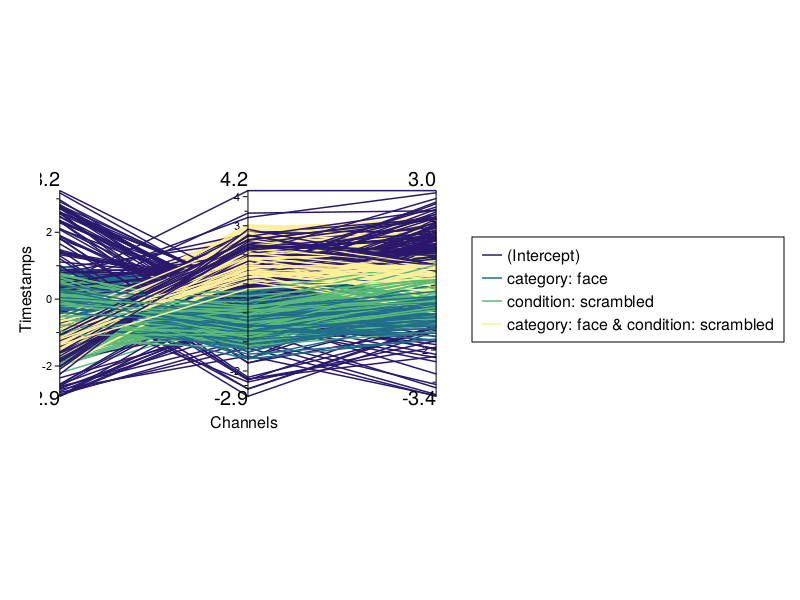
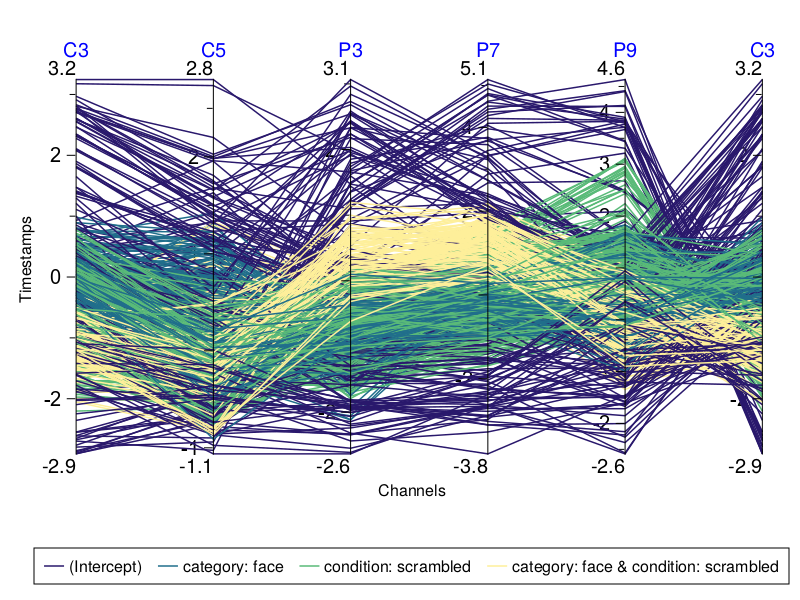
markdown progress, some fixes

diff --git a/docs/src/how_to/show_oob_labels.md b/docs/src/how_to/show_oob_labels.md
@@ -5,4 +5,34 @@ In the following we discuss a possible quick fix for this problem.
 
 Here we start off with the "label-limited" timeexpanded designmatrix from the [corresponding How To section](@ref ht_gen_te_designmatrix) that details how it can be generated.
 
+```
+cDesign = PlotConfig(:design)
+cDesign.setExtraValues(xTicks=10, sortData=false)
+
+cDesign.plot(designmatrix!(ufCont, evts))
+```
+
 ![Label Limited Timeexpanded Designmatrix](../images/designmatrix_te_12_labels.png)
+
+While the plot automatically sets it's height accoring to the labels, they are cut off on the left side.
+
+A quick fix would be to place an empty plot to the left of the designmatrix.
+
+By creating your own figure with Makie.Figure, and then only giving a certain grid position to the designmatrix we get white space next to the plot.
+
+The plot! function inside the plotconfic instance can take any grid position, and the figure `f` will include plot and sufficient white space next to it.
+
+The exact numbers in the grid position can be guessed from the ratio of the overlap, or just tried out.6
+
+```
+cDesign = PlotConfig(:design)
+cDesign.setExtraValues(xTicks=10, sortData=false)
+
+f = Figure()
+
+cDesign.plot!(f[1,2:6],designmatrix!(ufCont, evts))
+
+f
+```
+
+![Label Limited Timeexpanded Designmatrix](../images/label_fix.png)

diff --git a/docs/src/how_to/mult_vis_in_fig.md b/docs/src/how_to/mult_vis_in_fig.md
@@ -1,3 +1,39 @@
 ## [Include multiple Visualizations in one Figure](@id ht_mvf)
 
 In this section we discuss how users are able to include multiple visualizations in a single figure.
+
+By using the !-version of each plot and giving the plot functions grid positions instead of full figures, we can create Coordinated Multiple Views.
+
+You start by creating a figure with Makie.Figure. 
+
+`f = Figure()`
+
+now each plot can be added to `f` via the `config.plot!()` function by putting in a grid position of `f`
+
+```
+f = Figure()
+cButter = PlotConfig(:butterfly)
+cLine = PlotConfig(:line)
+
+cButter.setMappingValues(topoChannels=:channel)
+cLine.setMappingValues(color=:channel)
+
+cLine.plot!(f[1,1], results_plot_butter)
+cButter.plot!(f[2, 1], results_plot_butter)
+
+f
+```
+
+![Simple Coordinated Multiple Views](../images/two_plots.png)
+
+By using the data from the tutorials we can create a big image with every plot (Code below).
+With so many plots at once it's incentivised to set a fixed resolution in your figure to order the plots evenly.
+
+
+![Coordinated Multiple Views](../images/every_plot.png)
+
+```
+
+
+```
+

diff --git a/docs/src/how_to/fix_pcp.md b/docs/src/how_to/fix_pcp.md
@@ -1,4 +1,34 @@
 ## [Fix Parallel Coordinates Plot](@id ht_fpcp)
 
+Since Makie didn't have a native function to draw PCPs our version is somewhat experimental for broad applications.
+
 Under certain circumstances the PCP is not properly visualized.
-In the following these circumstances are detailed and workarounds are proposed.
+This leads to cut of edges of the PCP, and unused space.
+
+Especially when changing the container size by customizing the figure resolution, or adding multiple plots into one figure, the PCP can have problems fitting inside.
+
+![Default Timeexpanded Designmatrix](../images/broken_PCP.png)
+
+Since the plot could have more space above and below, we can change the aspect ratio of the plot with:
+`
+
+`
+
+The labels cut off at the top can be restored with
+`
+
+`
+
+, the plot collides with the lower numbers, the numbers on the left are cut off
+
+To mitigate the effects you can use multiple variables to manually shift the border around the plot.
+
+
+
+```
+
+
+
+```
+
+

diff --git a/docs/src/tutorials/para_coord.md b/docs/src/tutorials/para_coord.md
@@ -32,11 +32,16 @@ The following code will result in the default configuration.
 ```
 paraConfig = PlotConfig(:paracoord)
 ```
-If there are no columns named `category` or `yhat` we have to give the correct names. With this test data it has to be given:
+If there are no columns named `category`,`y`,`channel` and `time` we have to give the correct names. Though y has some alternative default values, it might be safer to set it directly. With this test data we give:
 ```
-paraConfig.setMappingValues(category=:coefname,yhat=:estimate)
+paraConfig.setMappingValues(category=:coefname, y=:estimate)
 ```
 At this point you can detail changes you want to make to the visualization through the plot config. These are detailed further below. 
+
+We choose to put the legend at the bottom instead of to the right
+```
+paraConfig.setLayoutValues(legendPosition=:bottom)
+```
 
 This is how you finally plot the PCP.
 ```
